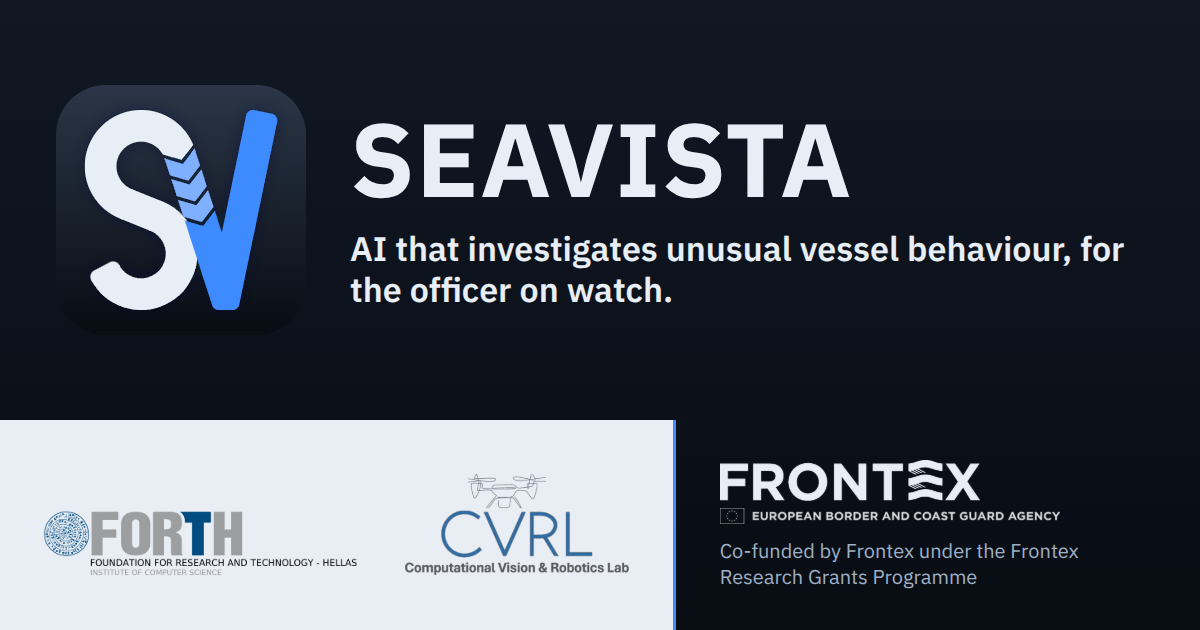
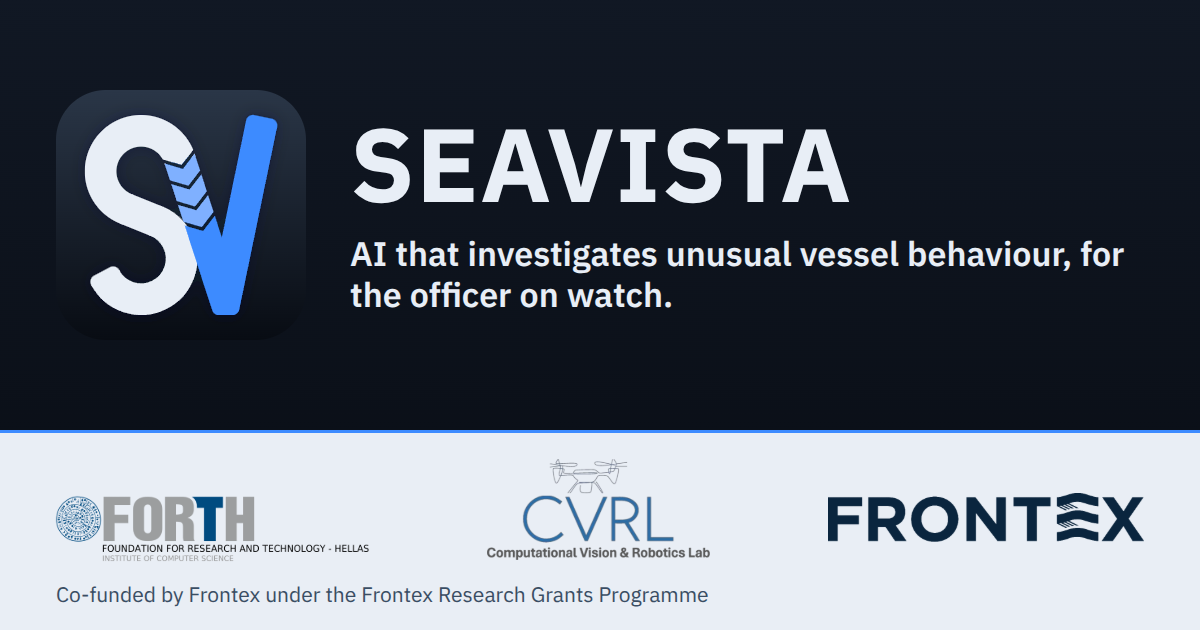
The preview card, the three marks in one row

diff --git a/index.html b/index.html
@@ -15,7 +15,7 @@
 <meta property="og:image" content="https://seavista-r-d.github.io/og-card.png">
 <meta property="og:image:width" content="1200">
 <meta property="og:image:height" content="630">
-<meta property="og:image:alt" content="The SEAVISTA mark beside the name and the line: AI that investigates unusual vessel behaviour, for the officer on watch. FORTH-ICS and CVRL along the foot; co-funded by Frontex under the Frontex Research Grants Programme.">
+<meta property="og:image:alt" content="The SEAVISTA mark beside the name and the line: AI that investigates unusual vessel behaviour, for the officer on watch. FORTH-ICS, CVRL and FRONTEX along the foot; co-funded by Frontex under the Frontex Research Grants Programme.">
 <meta name="twitter:card" content="summary_large_image">
 <link rel="stylesheet" href="https://fonts.googleapis.com/css2?family=IBM+Plex+Mono:wght@400;500&family=IBM+Plex+Sans:wght@400;600;700&display=swap">
 <style>
